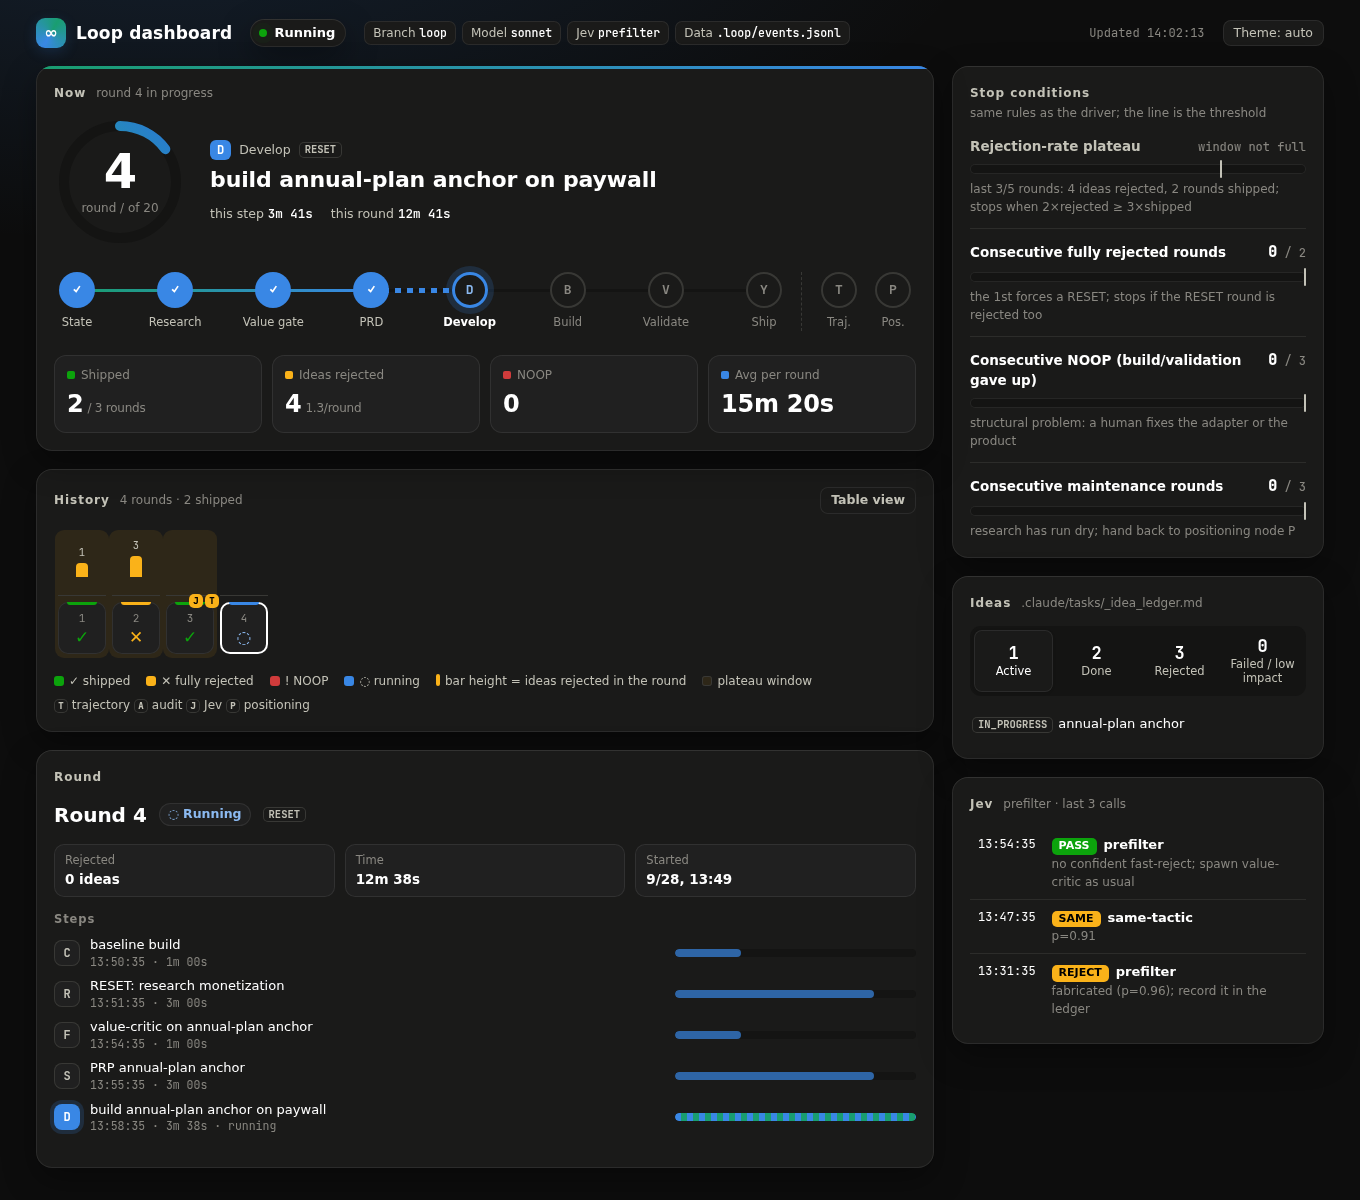
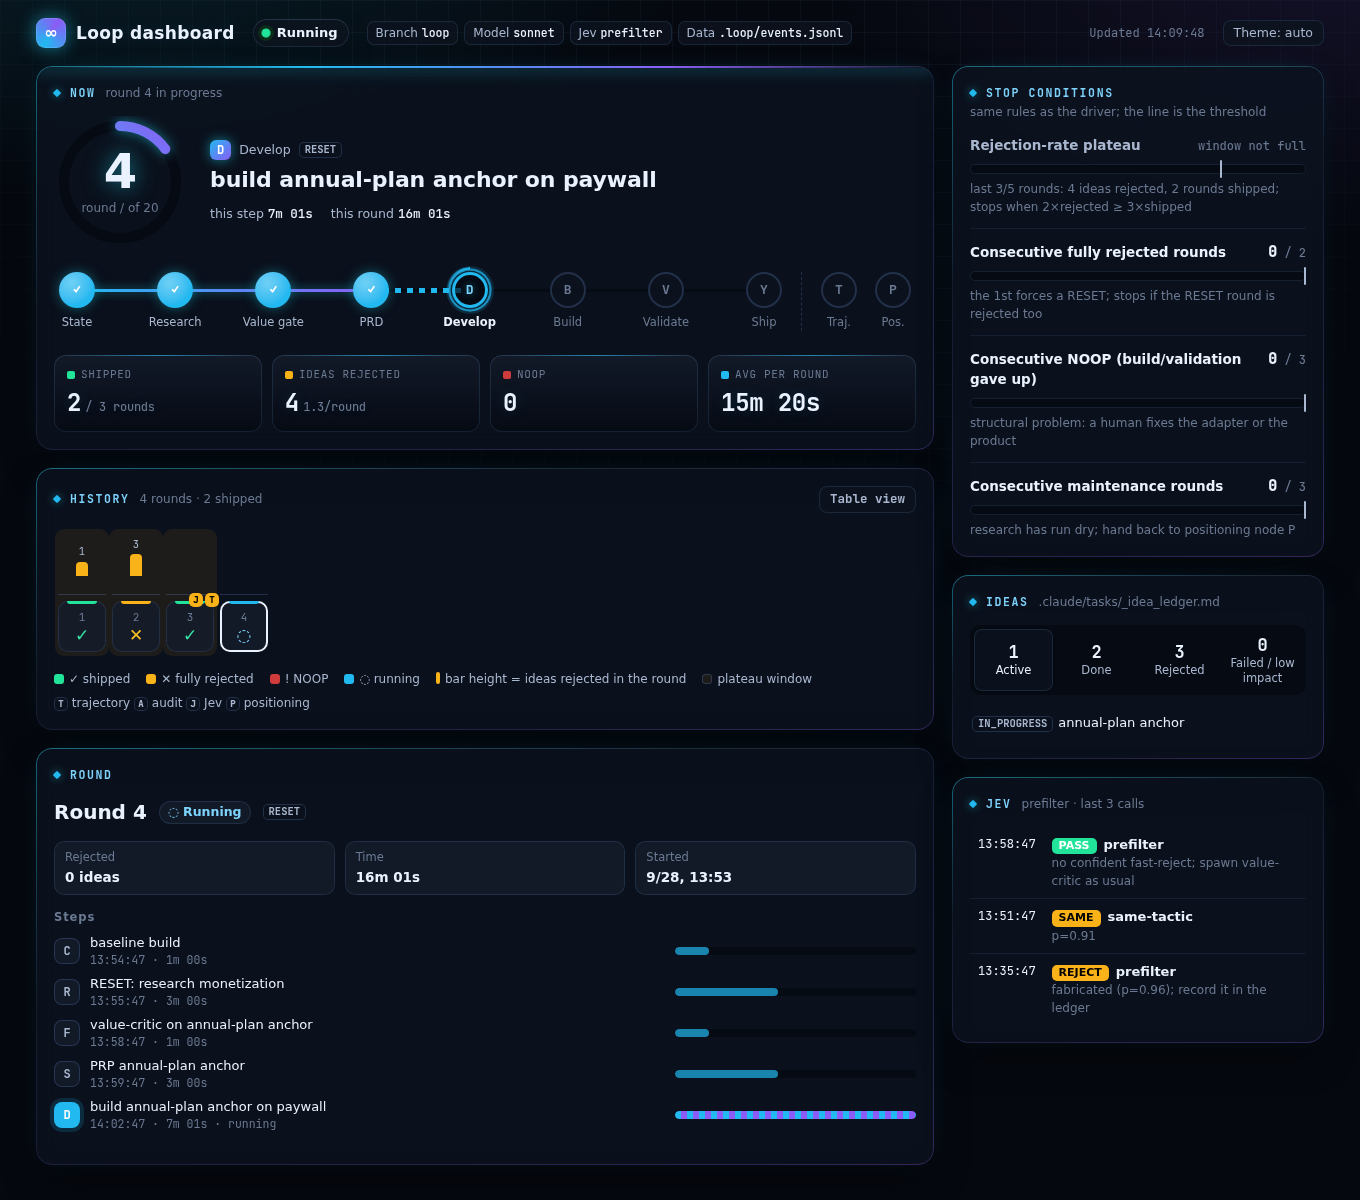
Dashboard: more technical look (grid backdrop, neon glow, gradient edges, cyan/violet palette)

diff --git a/scripts/dashboard/index.html b/scripts/dashboard/index.html
@@ -14,30 +14,41 @@
   --accent: #2a78d6; --accent-2: #1baf7a; --accent-soft: rgba(42,120,214,.12); --accent-ink: #1d5aa3;
   --good: #0ca30c; --good-ink: #006300; --warning: #fab219; --warning-ink: #8a5a00; --critical: #d03b3b; --critical-ink: #b02a2a;
   --band: rgba(250,178,25,.12);
+  --glow-2: rgba(139,92,246,.07); --grid: rgba(42,120,214,.05); --neon: rgba(42,120,214,.35);
+  --edge: linear-gradient(160deg, rgba(42,120,214,.35), rgba(11,11,11,.06) 40%, rgba(139,92,246,.22));
   --mono: ui-monospace, "SF Mono", SFMono-Regular, "JetBrains Mono", Menlo, monospace;
 }
 @media (prefers-color-scheme: dark) {
   :root:where(:not([data-theme="light"])) {
     color-scheme: dark;
-    --page: #0d0d0d; --glow: rgba(57,135,229,.16); --surface: #1a1a19; --surface-2: #202020; --inset: #141413;
-    --ink: #ffffff; --ink-2: #c3c2b7; --muted: #898781;
-    --line: #2c2c2a; --line-2: #383835; --ring: rgba(255,255,255,.08); --shadow: 0 1px 0 rgba(255,255,255,.03) inset, 0 12px 32px rgba(0,0,0,.35);
-    --accent: #3987e5; --accent-2: #199e70; --accent-soft: rgba(57,135,229,.18); --accent-ink: #8bb9f0;
-    --good-ink: #0ca30c; --warning-ink: #fab219; --critical-ink: #f07a7a; --band: rgba(250,178,25,.09);
+    --page: #05080f; --glow: rgba(34,211,238,.13); --glow-2: rgba(139,92,246,.12); --grid: rgba(125,211,252,.045);
+    --surface: rgba(13,19,31,.78); --surface-2: rgba(20,28,44,.8); --inset: rgba(4,8,16,.7);
+    --ink: #eaf2ff; --ink-2: #a9b8d0; --muted: #6b7a93;
+    --line: rgba(125,170,255,.10); --line-2: rgba(125,170,255,.20); --ring: rgba(125,190,255,.13);
+    --edge: linear-gradient(160deg, rgba(34,211,238,.45), rgba(125,170,255,.08) 35%, rgba(139,92,246,.30));
+    --shadow: 0 1px 0 rgba(255,255,255,.05) inset, 0 18px 40px -12px rgba(0,0,0,.6), 0 0 32px -12px rgba(34,211,238,.18);
+    --accent: #22b8f0; --accent-2: #8b5cf6; --accent-soft: rgba(34,184,240,.16); --accent-ink: #7dd3fc; --neon: rgba(34,211,238,.55);
+    --good: #22e39a; --good-ink: #34e5a4; --warning-ink: #fbbf24; --critical-ink: #f87171; --band: rgba(250,178,25,.08);
   }
 }
 :root[data-theme="dark"] {
   color-scheme: dark;
-  --page: #0d0d0d; --glow: rgba(57,135,229,.16); --surface: #1a1a19; --surface-2: #202020; --inset: #141413;
-  --ink: #ffffff; --ink-2: #c3c2b7; --muted: #898781;
-  --line: #2c2c2a; --line-2: #383835; --ring: rgba(255,255,255,.08); --shadow: 0 1px 0 rgba(255,255,255,.03) inset, 0 12px 32px rgba(0,0,0,.35);
-  --accent: #3987e5; --accent-2: #199e70; --accent-soft: rgba(57,135,229,.18); --accent-ink: #8bb9f0;
-  --good-ink: #0ca30c; --warning-ink: #fab219; --critical-ink: #f07a7a; --band: rgba(250,178,25,.09);
+  --page: #05080f; --glow: rgba(34,211,238,.13); --glow-2: rgba(139,92,246,.12); --grid: rgba(125,211,252,.045);
+  --surface: rgba(13,19,31,.78); --surface-2: rgba(20,28,44,.8); --inset: rgba(4,8,16,.7);
+  --ink: #eaf2ff; --ink-2: #a9b8d0; --muted: #6b7a93;
+  --line: rgba(125,170,255,.10); --line-2: rgba(125,170,255,.20); --ring: rgba(125,190,255,.13);
+  --edge: linear-gradient(160deg, rgba(34,211,238,.45), rgba(125,170,255,.08) 35%, rgba(139,92,246,.30));
+  --shadow: 0 1px 0 rgba(255,255,255,.05) inset, 0 18px 40px -12px rgba(0,0,0,.6), 0 0 32px -12px rgba(34,211,238,.18);
+  --accent: #22b8f0; --accent-2: #8b5cf6; --accent-soft: rgba(34,184,240,.16); --accent-ink: #7dd3fc; --neon: rgba(34,211,238,.55);
+  --good: #22e39a; --good-ink: #34e5a4; --warning-ink: #fbbf24; --critical-ink: #f87171; --band: rgba(250,178,25,.08);
 }
 * { box-sizing: border-box; }
 html, body { margin: 0; }
 body {
-  background: radial-gradient(1200px 520px at 12% -120px, var(--glow), transparent 70%), var(--page);
+  background:
+    radial-gradient(900px 480px at 8% -140px, var(--glow), transparent 70%),
+    radial-gradient(800px 460px at 100% -80px, var(--glow-2), transparent 70%),
+    var(--page);
   background-attachment: fixed; color: var(--ink); min-height: 100vh;
   font: 14px/1.5 system-ui, -apple-system, "Segoe UI", "PingFang TC", "Noto Sans TC", sans-serif;
   -webkit-font-smoothing: antialiased;
@@ -45,14 +56,17 @@ body {
 button { font: inherit; color: inherit; }
 a { color: var(--accent-ink); }
 code, .mono { font-family: var(--mono); font-size: .92em; }
-.wrap { max-width: 1320px; margin: 0 auto; padding: 18px 16px 56px; }
+body::before { content: ""; position: fixed; inset: 0; pointer-events: none; z-index: 0;
+  background-image: linear-gradient(var(--grid) 1px, transparent 1px), linear-gradient(90deg, var(--grid) 1px, transparent 1px);
+  background-size: 32px 32px; -webkit-mask: radial-gradient(ellipse 90% 70% at 50% 0%, #000 30%, transparent 85%); mask: radial-gradient(ellipse 90% 70% at 50% 0%, #000 30%, transparent 85%); }
+.wrap { position: relative; z-index: 1; max-width: 1320px; margin: 0 auto; padding: 18px 16px 56px; }
 
 /* top bar */
 .bar { display: flex; flex-wrap: wrap; align-items: center; gap: 10px 18px; margin-bottom: 18px; }
 .brand { display: flex; align-items: center; gap: 10px; }
 .mark { width: 30px; height: 30px; border-radius: 9px; display: grid; place-items: center; color: #fff; font-weight: 800; font-size: 16px;
-  background: conic-gradient(from 210deg, var(--accent), var(--accent-2), var(--accent)); box-shadow: 0 4px 14px var(--accent-soft); }
-.brand h1 { margin: 0; font-size: 17px; font-weight: 700; letter-spacing: .01em; line-height: 1.2; }
+  background: conic-gradient(from 210deg, var(--accent), var(--accent-2), var(--accent)); box-shadow: 0 0 0 1px rgba(255,255,255,.12) inset, 0 0 18px var(--neon); }
+.brand h1 { margin: 0; font-size: 17px; font-weight: 700; letter-spacing: .02em; text-shadow: 0 0 18px var(--accent-soft); line-height: 1.2; }
 .brand .prod { font-size: 12px; color: var(--muted); }
 .pill { display: inline-flex; align-items: center; gap: 7px; padding: 4px 11px 4px 9px; border-radius: 999px; font-size: 13px; font-weight: 600;
   background: var(--surface); box-shadow: inset 0 0 0 1px var(--ring), var(--shadow); }
@@ -83,27 +97,31 @@ code, .mono { font-family: var(--mono); font-size: .92em; }
 .grid { display: grid; grid-template-columns: minmax(0, 1fr) 372px; gap: 18px; align-items: start; }
 @media (max-width: 1060px) { .grid { grid-template-columns: minmax(0, 1fr); } }
 .col { display: grid; gap: 18px; min-width: 0; }
-.card { background: var(--surface); border-radius: 16px; box-shadow: inset 0 0 0 1px var(--ring), var(--shadow); padding: 18px; min-width: 0; }
-.card > h2 { font-size: 12px; font-weight: 700; letter-spacing: .08em; color: var(--ink-2); margin: 0 0 14px;
+.card { position: relative; background: var(--surface); border-radius: 16px; box-shadow: var(--shadow); padding: 18px; min-width: 0;
+  -webkit-backdrop-filter: blur(10px) saturate(140%); backdrop-filter: blur(10px) saturate(140%); }
+.card::after { content: ""; position: absolute; inset: 0; border-radius: inherit; padding: 1px; background: var(--edge); pointer-events: none;
+  -webkit-mask: linear-gradient(#000 0 0) content-box, linear-gradient(#000 0 0); -webkit-mask-composite: xor; mask: linear-gradient(#000 0 0) content-box exclude, linear-gradient(#000 0 0); }
+.card > h2 { font-family: var(--mono); font-size: 11.5px; font-weight: 700; letter-spacing: .14em; text-transform: uppercase; color: var(--accent-ink); margin: 0 0 14px;
   display: flex; flex-wrap: wrap; align-items: baseline; gap: 2px 10px; white-space: nowrap; }
-.card > h2 .sub { font-weight: 500; letter-spacing: 0; color: var(--muted); font-size: 12px; white-space: normal; overflow-wrap: anywhere; min-width: 0; }
+.card > h2::before { content: ""; align-self: center; width: 6px; height: 6px; border-radius: 1px; background: var(--accent); box-shadow: 0 0 8px var(--neon); transform: rotate(45deg); }
+.card > h2 .sub { font-family: system-ui, -apple-system, "Segoe UI", sans-serif; text-transform: none; font-weight: 500; letter-spacing: 0; color: var(--muted); font-size: 12px; white-space: normal; overflow-wrap: anywhere; min-width: 0; }
 .card > h2 .right { margin-left: auto; letter-spacing: 0; }
 .muted { color: var(--muted); } .small { font-size: 12px; }
 .empty { color: var(--muted); font-size: 13px; padding: 6px 0; }
 
 /* now */
 .now-card { position: relative; overflow: hidden; }
-.now-card::before { content: ""; position: absolute; inset: 0 0 auto 0; height: 3px; background: linear-gradient(90deg, var(--accent-2), var(--accent)); }
+.now-card::before { content: ""; position: absolute; inset: 0 0 auto 0; height: 2px; background: linear-gradient(90deg, transparent, var(--accent) 30%, var(--accent-2) 70%, transparent); box-shadow: 0 0 16px 1px var(--neon); }
 .now-head { display: grid; grid-template-columns: auto minmax(0, 1fr); gap: 24px; align-items: center; margin-bottom: 24px; }
 .ringbox { position: relative; width: 132px; height: 132px; }
 .ringbox svg { width: 132px; height: 132px; transform: rotate(-90deg); display: block; }
 .ringbox .trk { stroke: var(--inset); }
-.ringbox .arc { stroke: url(#arcGrad); transition: stroke-dashoffset .6s ease; }
+.ringbox .arc { stroke: url(#arcGrad); transition: stroke-dashoffset .6s ease; filter: drop-shadow(0 0 6px var(--neon)); }
 .ringbox .num { position: absolute; inset: 0; display: grid; place-content: center; text-align: center; }
-.ringbox .num b { font-size: 48px; font-weight: 700; line-height: 1; letter-spacing: -.02em; }
+.ringbox .num b { font-size: 48px; font-weight: 700; line-height: 1; letter-spacing: -.02em; font-variant-numeric: tabular-nums; text-shadow: 0 0 22px var(--neon); }
 .ringbox .num span { font-size: 12px; color: var(--muted); margin-top: 4px; }
 .activity .eyebrow { font-size: 12.5px; color: var(--ink-2); display: flex; flex-wrap: wrap; align-items: center; gap: 8px; margin-bottom: 6px; }
-.nodechip { font-family: var(--mono); font-weight: 700; font-size: 12px; color: #fff; background: var(--accent); border-radius: 6px; padding: 1px 7px; }
+.nodechip { font-family: var(--mono); font-weight: 700; font-size: 12px; color: #fff; background: linear-gradient(135deg, var(--accent), var(--accent-2)); box-shadow: 0 0 12px var(--neon); border-radius: 6px; padding: 1px 7px; }
 .activity .what { font-size: 22px; font-weight: 650; line-height: 1.3; letter-spacing: -.005em; overflow-wrap: anywhere; }
 .activity .timers { display: flex; flex-wrap: wrap; gap: 6px 18px; margin-top: 10px; font-size: 12.5px; color: var(--ink-2); }
 .activity .timers b { font-family: var(--mono); font-weight: 600; color: var(--ink); }
@@ -112,7 +130,7 @@ code, .mono { font-family: var(--mono); font-size: .92em; }
 .track-wrap { display: flex; gap: 14px; align-items: flex-start; }
 .rail { position: relative; flex: 1; display: flex; justify-content: space-between; min-width: 0; --half: 23px; }
 .rail::before { content: ""; position: absolute; left: var(--half); right: var(--half); top: 17px; height: 3px; border-radius: 3px; background: var(--inset); }
-.rail .fillbar { position: absolute; left: var(--half); top: 17px; height: 3px; border-radius: 3px; background: linear-gradient(90deg, var(--accent-2), var(--accent)); transition: width .5s ease; overflow: hidden; }
+.rail .fillbar { position: absolute; left: var(--half); top: 17px; height: 3px; border-radius: 3px; background: linear-gradient(90deg, var(--accent), var(--accent-2)); box-shadow: 0 0 10px var(--neon); transition: width .5s ease; overflow: hidden; }
 .rail.live .fillbar::after { content: ""; position: absolute; inset: 0; background: linear-gradient(90deg, transparent, rgba(255,255,255,.55), transparent); background-size: 40% 100%; background-repeat: no-repeat; animation: shimmer 2.4s ease-in-out infinite; }
 @keyframes shimmer { from { background-position: -60% 0; } to { background-position: 160% 0; } }
 .rail .flow { position: absolute; top: 16px; height: 5px; border-radius: 3px; background: repeating-linear-gradient(90deg, var(--accent) 0 6px, transparent 6px 12px); background-size: 24px 5px; animation: flow .9s linear infinite; }
@@ -123,9 +141,9 @@ code, .mono { font-family: var(--mono); font-size: .92em; }
 .stop .b { width: 36px; height: 36px; border-radius: 50%; display: grid; place-items: center; font-family: var(--mono); font-weight: 700; font-size: 13px;
   background: var(--surface); color: var(--muted); box-shadow: inset 0 0 0 2px var(--line-2); transition: all .3s; }
 .stop .l { font-size: 11.5px; color: var(--muted); white-space: nowrap; }
-.stop.done .b { background: var(--accent); color: #fff; box-shadow: none; }
+.stop.done .b { background: radial-gradient(circle at 35% 30%, color-mix(in srgb, var(--accent) 65%, #fff), var(--accent) 65%); color: #fff; box-shadow: 0 0 14px -2px var(--neon); }
 .stop.done .l { color: var(--ink-2); }
-.stop.now .b { position: relative; color: var(--accent-ink); box-shadow: inset 0 0 0 3px var(--accent), 0 0 0 6px var(--accent-soft); animation: halo 1.8s ease-in-out infinite; }
+.stop.now .b { position: relative; color: var(--accent-ink); background: var(--inset); text-shadow: 0 0 8px var(--neon); box-shadow: inset 0 0 0 3px var(--accent), 0 0 0 6px var(--accent-soft); animation: halo 1.8s ease-in-out infinite; }
 .stop.now .l { color: var(--ink); font-weight: 650; }
 .stop.now .b::before { content: ""; position: absolute; inset: -5px; border-radius: 50%; background: conic-gradient(from 0deg, transparent 0 65%, var(--accent)); -webkit-mask: radial-gradient(closest-side, transparent calc(100% - 3px), #000 calc(100% - 2px)); mask: radial-gradient(closest-side, transparent calc(100% - 3px), #000 calc(100% - 2px)); animation: spin 1.2s linear infinite; }
 .stop.now .b::after { content: ""; position: absolute; inset: 0; border-radius: 50%; box-shadow: 0 0 0 2px var(--accent); animation: ripple-ring 1.8s ease-out infinite; }
@@ -148,10 +166,11 @@ code, .mono { font-family: var(--mono); font-size: .92em; }
 
 .kpis { display: grid; grid-template-columns: repeat(4, minmax(0, 1fr)); gap: 10px; margin-top: 24px; }
 @media (max-width: 700px) { .kpis { grid-template-columns: repeat(2, minmax(0, 1fr)); } }
-.kpi { background: var(--surface-2); border-radius: 12px; padding: 11px 13px; box-shadow: inset 0 0 0 1px var(--ring); min-width: 0; }
-.kpi .l { font-size: 12px; color: var(--muted); display: flex; align-items: center; gap: 6px; }
+.kpi { position: relative; overflow: hidden; background: linear-gradient(180deg, var(--surface-2), var(--inset)); border-radius: 12px; padding: 11px 13px; box-shadow: inset 0 0 0 1px var(--ring), inset 0 1px 0 rgba(255,255,255,.04); min-width: 0; }
+.kpi::before { content: ""; position: absolute; left: 12px; right: 12px; top: 0; height: 1px; background: linear-gradient(90deg, transparent, var(--accent), transparent); opacity: .6; }
+.kpi .l { font-family: var(--mono); font-size: 11px; letter-spacing: .06em; text-transform: uppercase; color: var(--muted); display: flex; align-items: center; gap: 6px; }
 .kpi .l i { width: 8px; height: 8px; border-radius: 2px; display: inline-block; }
-.kpi .v { font-size: 24px; font-weight: 700; letter-spacing: -.01em; margin-top: 2px; white-space: nowrap; }
+.kpi .v { font-family: var(--mono); font-variant-numeric: tabular-nums; font-size: 24px; font-weight: 700; letter-spacing: -.01em; text-shadow: 0 0 16px var(--accent-soft); margin-top: 2px; white-space: nowrap; }
 .kpi .v small { font-size: 12px; font-weight: 500; color: var(--muted); margin-left: 4px; }
 
 /* history: rejects-per-round bars over status tiles */
@@ -258,7 +277,7 @@ dialog pre { margin: 0; padding: 16px; overflow: auto; max-height: calc(100vh - 
 </head>
 <body>
 <svg width="0" height="0" style="position:absolute" aria-hidden="true"><defs>
-  <linearGradient id="arcGrad" x1="0" y1="0" x2="1" y2="1"><stop offset="0" stop-color="#1baf7a"/><stop offset="1" stop-color="#2a78d6"/></linearGradient>
+  <linearGradient id="arcGrad" x1="0" y1="0" x2="1" y2="1"><stop offset="0" stop-color="#22d3ee"/><stop offset="1" stop-color="#8b5cf6"/></linearGradient>
 </defs></svg>
 <div class="wrap">
   <div class="bar">
